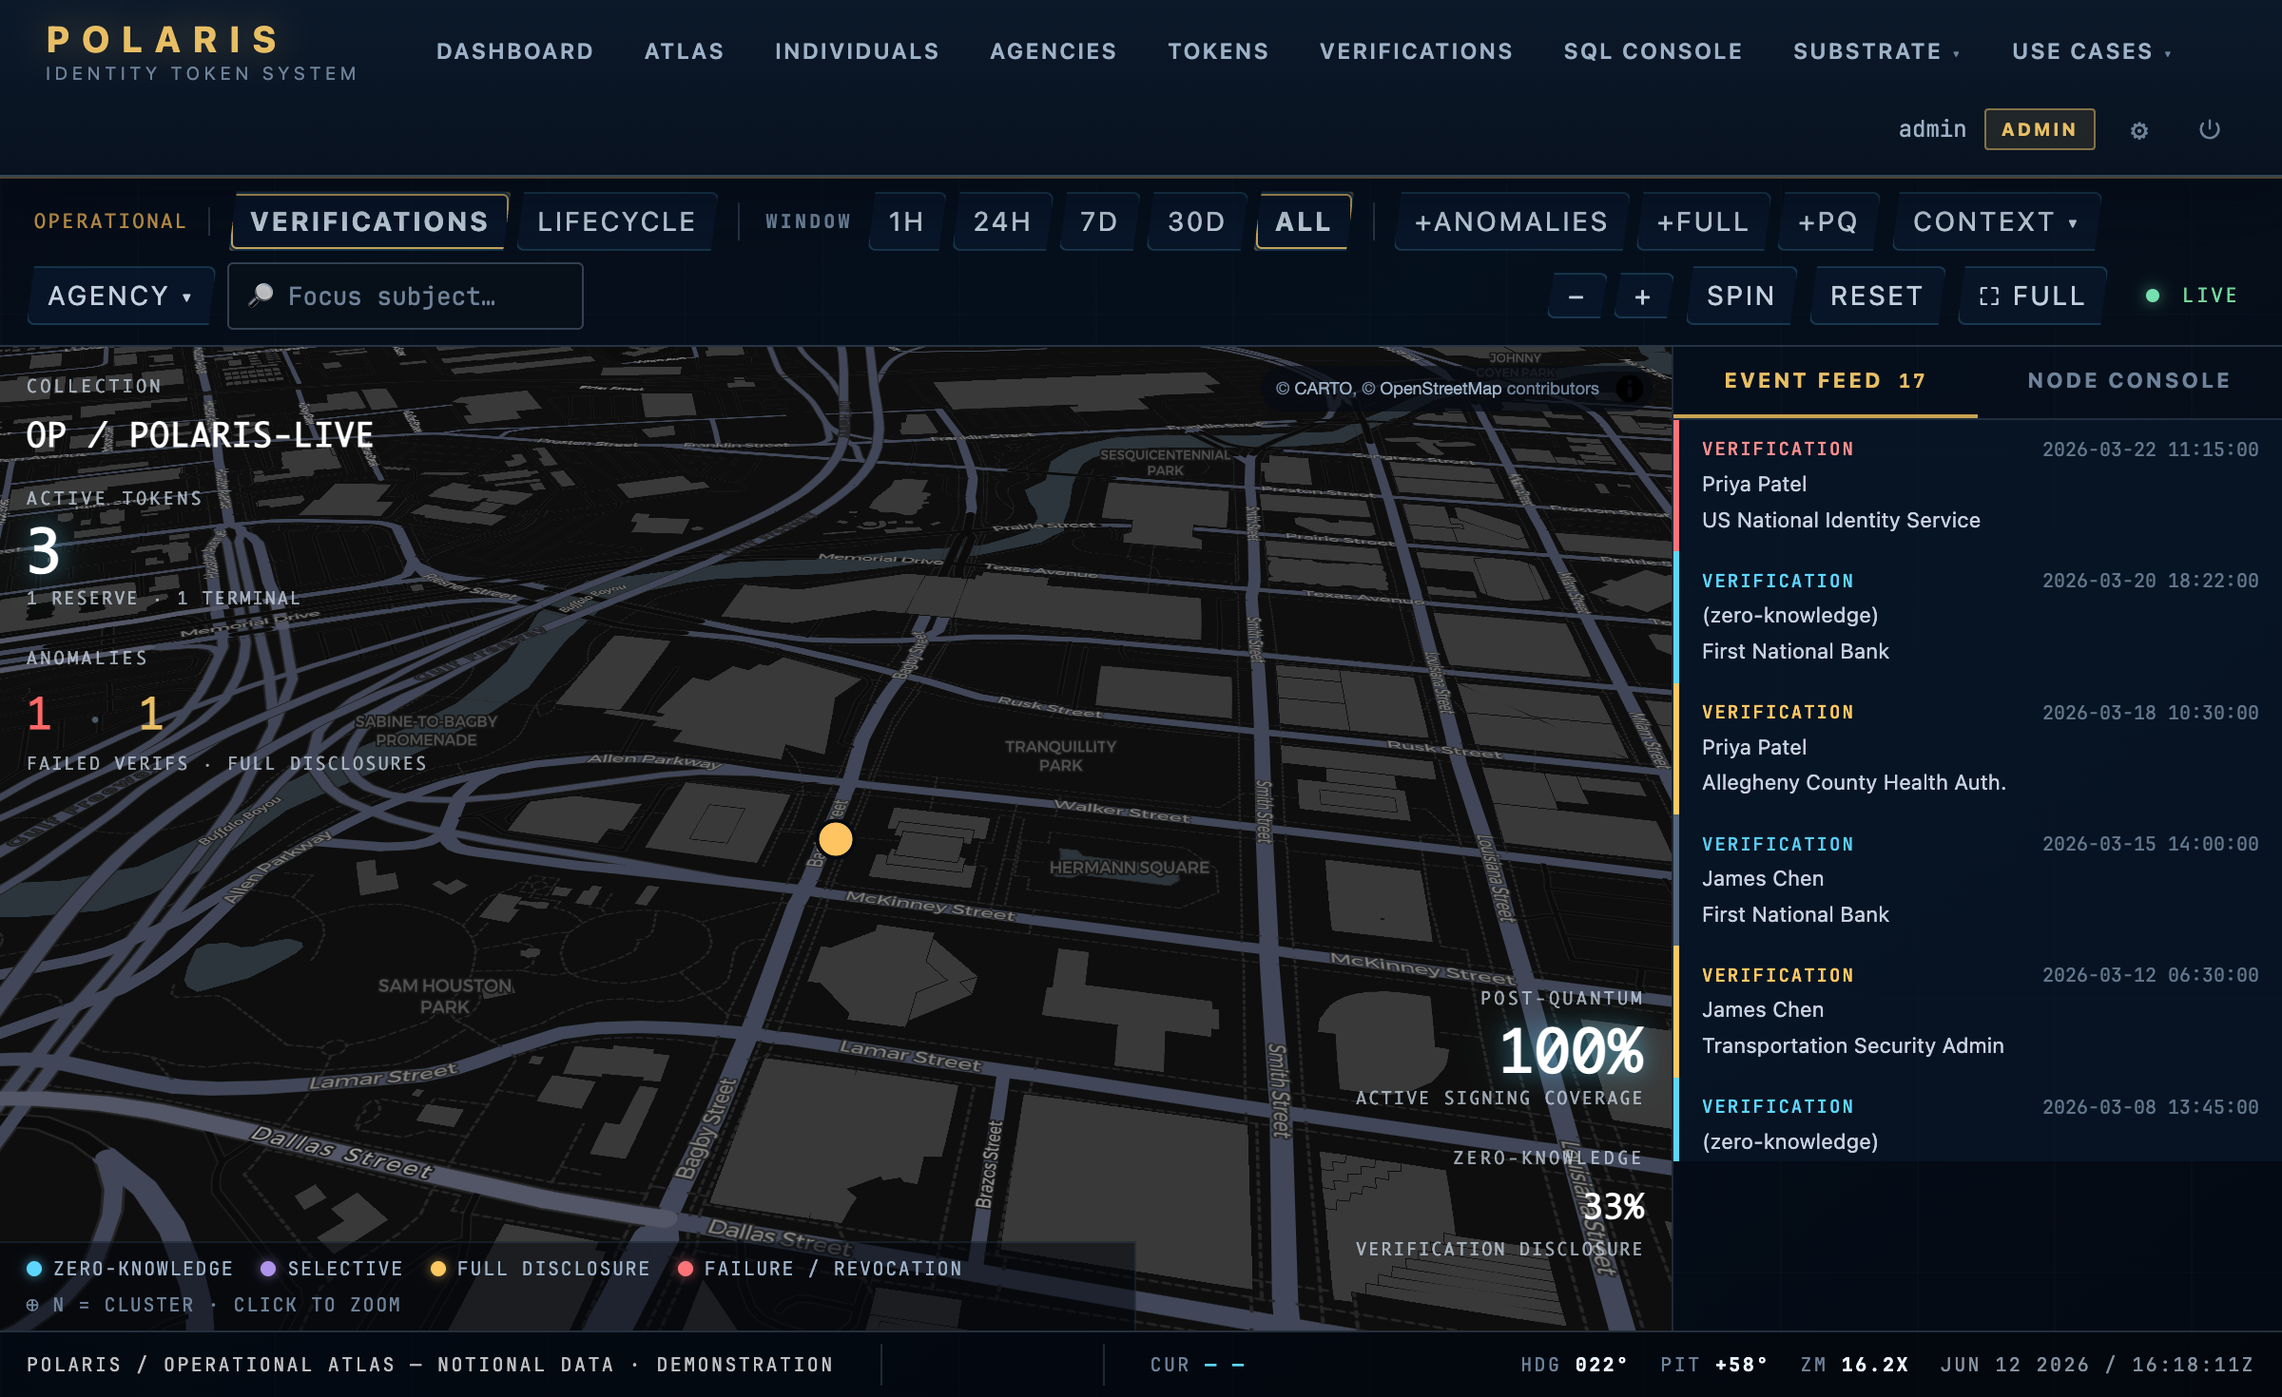
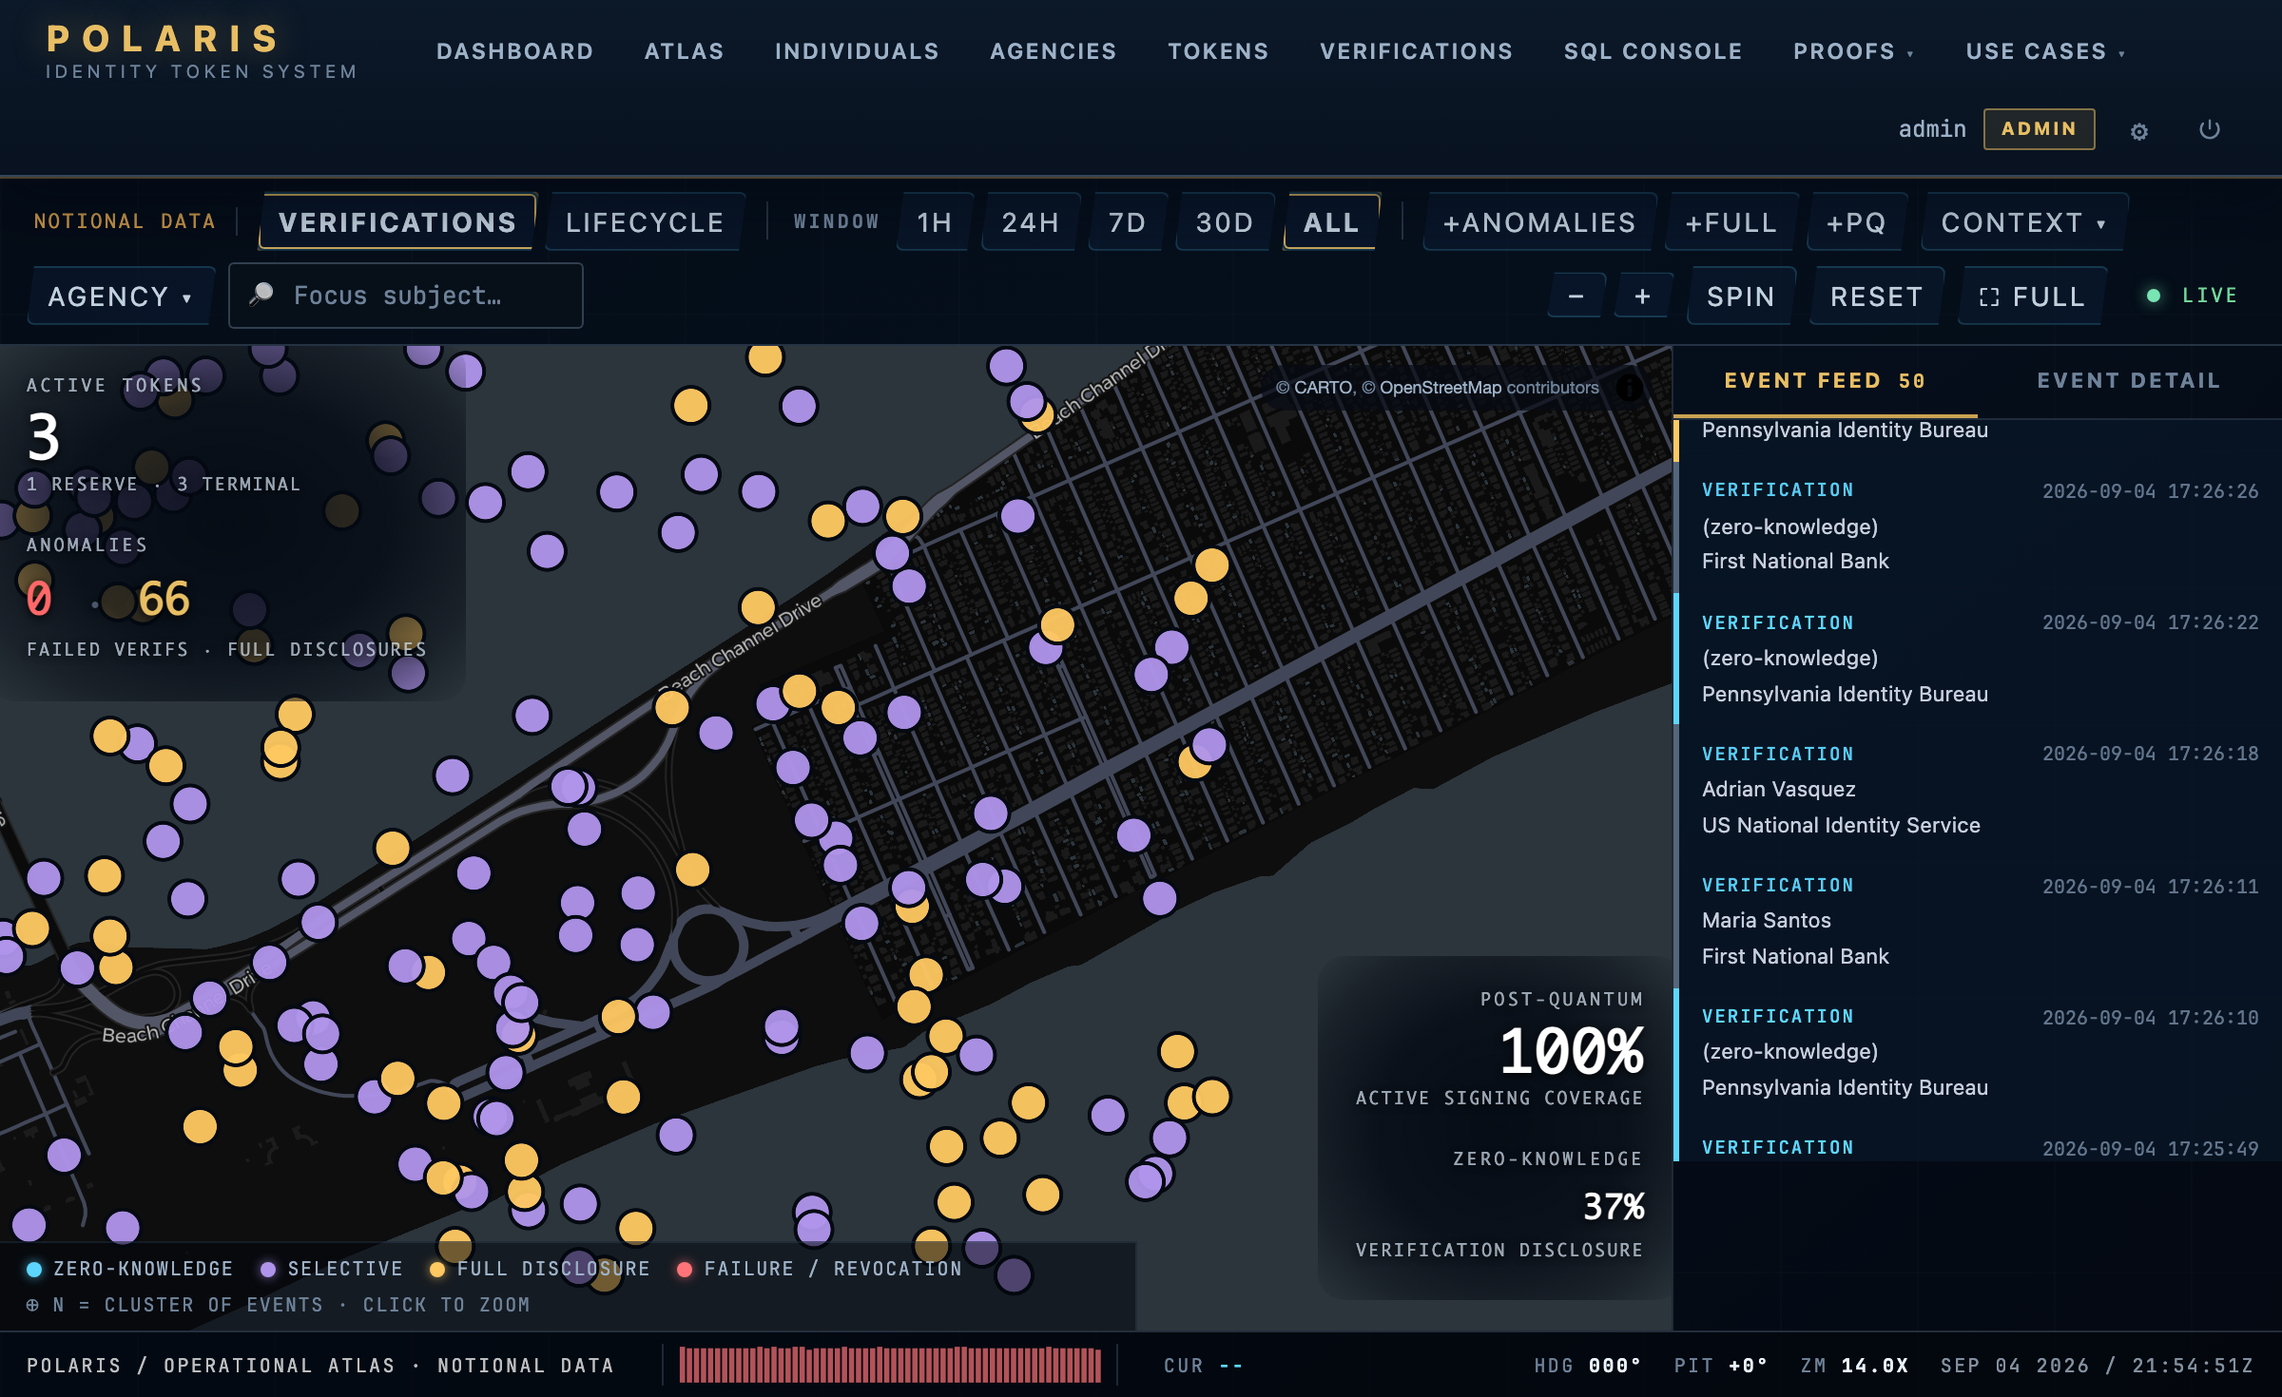
v9.213: the Atlas captures show the Atlas that ships, and the corner readouts stay readable
The three Atlas images in the README and on the project site were captured at
v9.205, before six ships changed the surface they show. All three are re-taken
against this version.

- The corner readouts get a contrast scrim: a soft radial halo plus a text
  shadow, so the figures stay readable over a basemap that draws its own place
  labels in a similar weight. A product fix; the captures show it.
- The subject-focus capture is re-taken against the ordinary seed, where one
  holder has four disclosed events and the gold path is legible, instead of the
  synthetic log where every holder carries a quarter-million events worldwide
  and the view fitted to a hemisphere with no path drawn.
- Two site captions stop claiming 3D buildings and a 3D street map, which the
  Atlas has never had, and the hero caption says marker rather than reticle,
  the word the interface stopped using at v9.211.
- The README caption carries the new capture stamp.

Gate: 113 checks ok, ai-done READY, link check clean, 467 web tests pass.

Claude-Session: https://claude.ai/code/session_01ArwLPctXuifm5eDEMQagsW

diff --git a/site/index.html b/site/index.html
@@ -153,12 +153,12 @@ footer a{color:var(--dim)}
 <section class="atlas-showcase">
     <figure class="atlas-hero">
         <img src="atlas-globe.png" alt="The Polaris Atlas: a dark operational map of North America with verification clusters, the event feed, and the post-quantum and zero-knowledge coverage figures" loading="lazy">
-        <figcaption><span class="ag-kicker">THE ATLAS</span> An operational globe that zooms from orbit to the street. Every reticle is a verification or lifecycle event, plotted where it happened. Zero-knowledge verifications never appear: they carry no location, by construction.</figcaption>
+        <figcaption><span class="ag-kicker">THE ATLAS</span> The operational surface: a map that zooms from the continent to the street. Every marker is a verification or lifecycle event, plotted where it happened. Zero-knowledge verifications never appear: they carry no location, by construction.</figcaption>
     </figure>
     <div class="atlas-pair">
         <figure>
-            <img src="atlas-street.png" alt="The Atlas zoomed to street level with 3D buildings and an event on its exact coordinate" loading="lazy">
-            <figcaption><b>Zoom to the street.</b> The globe flattens into a 3D street map; an event sits on its exact coordinate. Fetched per viewport, so the browser holds only what is on screen, whether the ledger has a thousand events or a hundred million.</figcaption>
+            <img src="atlas-street.png" alt="The Atlas at street level, every verification event drawn on its own coordinate along one avenue" loading="lazy">
+            <figcaption><b>Zoom to the street.</b> Clusters resolve into single events, each on the coordinate where it happened. Events are fetched per viewport, so the browser holds only what is on screen, whether the ledger carries a thousand events or a hundred million.</figcaption>
         </figure>
         <figure>
             <img src="atlas-subject.png" alt="Subject-focus investigation drawing one individual's disclosed events as a gold path" loading="lazy">

diff --git a/polaris_web/static/polaris.css b/polaris_web/static/polaris.css
@@ -2478,6 +2478,30 @@ textarea.sql {
     user-select: none;
 }
 
+/* The corner readouts float directly on the basemap, which carries its own
+   place labels in a similar weight. Without a scrim the two collide and the
+   numbers stop being readable over a light tile (v9.213). The halo is soft on
+   purpose: it restores contrast without drawing a panel around the readout. */
+.globe-hud::before {
+    content: '';
+    position: absolute;
+    inset: -16px -20px;
+    z-index: -1;
+    border-radius: 14px;
+    background: radial-gradient(ellipse at center,
+        rgba(3, 9, 18, 0.92) 0%,
+        rgba(3, 9, 18, 0.82) 48%,
+        rgba(3, 9, 18, 0.45) 78%,
+        rgba(3, 9, 18, 0) 100%);
+    pointer-events: none;
+}
+
+.globe-hud .hud-value,
+.globe-hud .hud-value-small,
+.globe-hud .hud-label {
+    text-shadow: 0 1px 4px rgba(0, 0, 0, 0.9);
+}
+
 .globe-hud-tl { top: 14px; left: 14px; }
 .globe-hud-tr { top: 14px; right: 14px; text-align: right; }
 .globe-hud-bl { bottom: 32px; left: 14px; }

diff --git a/polaris_web/__version__.py b/polaris_web/__version__.py
@@ -19,7 +19,7 @@ Bump procedure (see CLAUDE.md "Shipping"):
     3. Run `bash scripts/ai-done.sh` (polaris_checks + link-check) until READY.
 """
 
-__version__: str = "9.212"
+__version__: str = "9.213"
 
 
 # Backwards-compat alias for code that imported `POLARIS_VERSION`

diff --git a/DEVNOTES/presentation-plan.md b/DEVNOTES/presentation-plan.md
@@ -58,7 +58,7 @@ ship; the row is done when every ship under it is `[x]`.
 | P1.14 | 3. Community health files | [x] v9.203 (FUNDING.yml kept; see the ruling above) |
 | P1.14 | 4. CONTRIBUTING in public voice; README above the fold | [x] v9.204 |
 | P1.14 | 5. Release-note shape; `check_presentation_surface` | [x] v9.205 (also: Code of Conduct 3.0; the README Atlas capture re-taken from the running app; P1.15 ship 3 and P1.17 ship 6 re-capture after the chrome changes) |
-| P1.15 | 1. The site truth pass | [ ] (counts and the SLH-DSA and WebAuthn claims corrected v9.194; the launcher tile, the warrant-grade and globe captions and the notional-data statements remain) |
+| P1.15 | 1. The site truth pass | [ ] (counts and the SLH-DSA and WebAuthn claims corrected v9.194; the globe and street captions corrected v9.213; the launcher tile, the warrant-grade caption, the notional-data statements and the v9.194 measured-at block remain) |
 | P1.15 | 2. The site structure pass | [ ] |
 | P1.15 | 3. Assets and tokens | [ ] |
 | P1.15 | 4. The site gate | [ ] |
@@ -74,6 +74,7 @@ ship; the row is done when every ship under it is `[x]`.
 | P1.17 | 4. The CLI | [x] v9.209 (the `polaris` versus `polaris-id` name is decided: `polaris-id`, applied everywhere) |
 | P1.17 | 5. Observability | [x] v9.210 (the metrics ACL now ships in both edges and is exercised in the caddy-edge job) |
 | P1.17 | 6. The chrome and the seed | [x] v9.211 |
+| P1.17 | 7. The Atlas captures and the readout scrim | [x] v9.213 (all three images re-taken at this version; the subject frame moved to the ordinary seed so the gold path is legible; the site's 3D-buildings and reticle captions corrected, which is part of P1.15 ship 1 landed early) |
 
 Each ship follows the standing discipline in CLAUDE.md: edit, check, bump,
 CHANGELOG, gate READY, CI green, release. A ship that touches a runbook or
@@ -215,7 +216,7 @@ A tree that explains itself on first open. Thirty-six scripts under one naming r
 1. Delete the six dead scripts and their dead references: scripts/ai-bootstrap.sh, scripts/ai-authz-audit.sh, scripts/ai_authz_audit.py, scripts/polaris-concurrency-harness.sh, scripts/polaris-idempotency-test.sh, scripts/polaris-doctor.sh. Before deleting the last two, decide whether the properties they prove (00_load_all idempotency, measured C3 behaviour under load) should become CI assertions; if so port them into .github/workflows/ci.yml in the same commit. The launcher's doctor subcommand stays and is the documented diagnostic at README.md:193.
 2. Untrack .claude/settings.json (git rm --cached) and remove the working-tree file. Its PreToolUse hook invokes scripts/polaris-ai-done-hook.sh, which does not exist anywhere in the tree; CHANGELOG.md:4423 records that wrapper as deliberately deleted in the pass that cut AI-methodology scaffolding, and .gitignore:89 already declares .claude/ per-user. Do not re-add the hook script: that would reverse a documented decision. Do not edit the CHANGELOG entries.
 3. Delete polaris_web/nginx.conf.example and rewrite polaris_web/README.md:100-101 and :446, its only two referrers, to point at the Caddy edge (Caddyfile, Dockerfile.caddy) and at docs/operator/DEPLOYMENT.md and LINUX-SERVER.md. docs/operator/DEPLOYMENT.md:48-51 records that the native nginx path was retired in v9.176 for bypassing container hardening, the pgbouncer and postgres TLS hops, pgBackRest and the secrets layout, so the committed sample is a live path to an insecure deployment.
-4. Delete polaris_web/static/atlas-globe.js and the dead CSS rule blocks it left behind in polaris_web/static/polaris.css (.d3-globe-node, .globe-toolbar, .globe-toolbar-time, .atlas-toolbar, .atlas-stage, .atlas-container, plus .atlas-id-strip-secondary, .globe-hud-tr, .globe-hud-bl, .hud-row, .hud-value-primary, .live-indicator, .badge-live, .filter-chip, .health-sub, .notice-copy, .notice-light, .notice-time). Keep every dynamically composed selector (.pill-*, .auth-*, .ctx-*, .audit-*, .disclosure-cell-*, .agency-type-*, .flash-*) and correct the stale docstring at polaris_web/test_e2e_atlas.py:8 that still describes the page as a WebGL globe rendered by atlas-globe.js.
+4. Delete polaris_web/static/atlas-globe.js and the dead CSS rule blocks it left behind in polaris_web/static/polaris.css (.d3-globe-node, .globe-toolbar, .globe-toolbar-time, .atlas-toolbar, .atlas-stage, .atlas-container, plus .atlas-id-strip-secondary, .globe-hud-tr, .globe-hud-bl, .hud-row, .hud-value-primary, .live-indicator, .badge-live, .filter-chip, .health-sub, .notice-copy, .notice-light, .notice-time). Keep every dynamically composed selector (.pill-*, .auth-*, .ctx-*, .audit-*, .disclosure-cell-*, .agency-type-*, .flash-*) and correct the stale docstring at polaris_web/test_e2e_atlas.py:8 that still describes the page as a WebGL globe rendered by atlas-globe.js. Three documents describe the same dead file and the vocabulary it used: docs/reference/SCALING.md:110, :225 and :230 (the frontend section, and "reticle ornament with leader line + label", which the current renderer does not draw), DEVNOTES/atlas-scaling.md:21, and polaris_web/README.md:195. They move to atlas-map.js and to marker, the word the interface uses since v9.211.
 5. De-duplicate the binaries. Keep one canonical copy of the four PNGs and favicon.svg in assets/, have .github/workflows/pages.yml copy them into the Pages artifact, and rewrite assets/README.md so its file table lists every file present with its consumer, deleting the What this directory is NOT section. Delete polaris_zk/LICENSE and rely on the SPDX license field in polaris_zk/Cargo.toml; keep or delete polaris_cli/LICENSE with the reason stated once in NOTICE, so the asymmetry across the four packages becomes a rule instead of an accident.
 6. Remove the empty journal/ and sanctum/ directories from the working tree (neither appears in git ls-files, so neither exists in a fresh clone) and clean up the references that survive them: the journal/ row at docs/CONVENTIONS.md:20 and its path spec at :153, the archive/ row at :22, the now-dead skip branch at scripts/ai-link-check.sh:91-92, and the journal/ clause at .gitignore:154. Replace the dangling sanctum citation at meta/tla/c3-one-active-token.tla:24 with the reasoning stated inline, and either define Sanctum once in docs/reference/GLOSSARY.md or replace it everywhere with a plain phrase such as a recorded amendment decision.
 7. Rename the surviving ai-* scripts by job, updating every caller in the same commit: ai-coverage.sh to polaris-coverage.sh (7 referring files), ai-link-check.sh to polaris-link-check.sh (10), ai-test.sh to polaris-test.sh (12), ai-done.sh to polaris-preflight.sh (5). Callers to update: .github/workflows/ci.yml:162 and :198, .pre-commit-config.yaml, .coveragerc, polaris_checks/checks.py and test_checks.py, polaris_web/test_app.py, polaris_web/__version__.py's documented bump procedure, README.md:160, CONTRIBUTING.md:62-74, CLAUDE.md:53-56, docs/ARCHITECTURE-OVERVIEW.md:275, and docs/CONVENTIONS.md:47-52 where the agent-versus-operator naming split is codified. Standardise the Python helpers on one separator (polaris_load_gen.py). Leave CHANGELOG.md history unrewritten and add a CHANGELOG entry mapping old names to new.

diff --git a/CHANGELOG.md b/CHANGELOG.md
@@ -5,6 +5,40 @@ ship-by-ship history is preserved in the git log.
 
 ---
 
+## v9.213 — 2026-09-04 (the Atlas screenshots show the Atlas that ships, and the corner readouts stay readable)
+
+The three Atlas images in the README and on the project site were captured at
+v9.205. Six ships later the surface they show no longer exists: the menu, the
+dock tab names and the marker vocabulary all changed at v9.211, and the
+subject-focus frame carried a caption the picture did not support. A
+screenshot that misrepresents the running software is a claim the repository
+cannot back, so all three are re-taken against this version.
+
+- **The corner readouts get a contrast scrim.** They float directly on the
+  basemap, which draws its own place labels in a similar weight, so over a
+  populated metro the active-token and anomaly figures were competing with
+  town names for the same pixels. A soft radial halo behind each readout,
+  plus a text shadow on the values, restores the contrast without drawing a
+  panel around the numbers. This is a fix to the product; the new captures
+  simply show it.
+- **The subject-focus capture now shows what its caption claims.** The
+  previous frame was taken against the two-million-event synthetic log, where
+  every holder carries a quarter-million events scattered worldwide, so the
+  view fitted to a whole hemisphere and drew no path at all. It is re-taken
+  against the ordinary seed: one holder, four disclosed events, the gold path
+  from the issuance in Manhattan to a travel check at the airport and back,
+  with the selected event's disclosure level, agency and coordinate open in
+  the detail panel beside it.
+- **Two site captions stop claiming a feature that does not exist.** The
+  street-level pair said the map "flattens into a 3D street map" with "3D
+  buildings"; there is no extrusion layer in the Atlas and never has been.
+  The caption now says what the image shows, which is clusters resolving into
+  single events on their own coordinates. The hero caption drops "globe" and
+  "orbit" for the flat map it is, and says marker rather than reticle, the
+  word the interface itself stopped using at v9.211.
+- **The README caption carries the new capture stamp**, so the version that
+  produced the picture is still on the page next to it.
+
 ## v9.212 — 2026-09-04 (the freeze line is recorded closed, on the owner's direction)
 
 The constitution's freeze line was written as a definition of done with an

diff --git a/README.md b/README.md
@@ -21,7 +21,7 @@ Educational project; notional data only. CI builds and boots the full production
 
 <img src="assets/atlas-globe.png" alt="The Polaris Atlas: a dark operational map of North America with verification clusters, the event feed, and the post-quantum and zero-knowledge coverage figures" width="900">
 
-<sub>**The Atlas**, the operational surface: a map that zooms from the continent to the street, plotting every verification and lifecycle event where it happened (notional data; captured at v9.205 against a two-million-event synthetic log). Zero-knowledge verifications never appear. They carry no location, by construction.</sub>
+<sub>**The Atlas**, the operational surface: a map that zooms from the continent to the street, plotting every verification and lifecycle event where it happened (notional data; captured at v9.213 against a two-million-event synthetic log). Zero-knowledge verifications never appear. They carry no location, by construction.</sub>
 
 </div>
 
